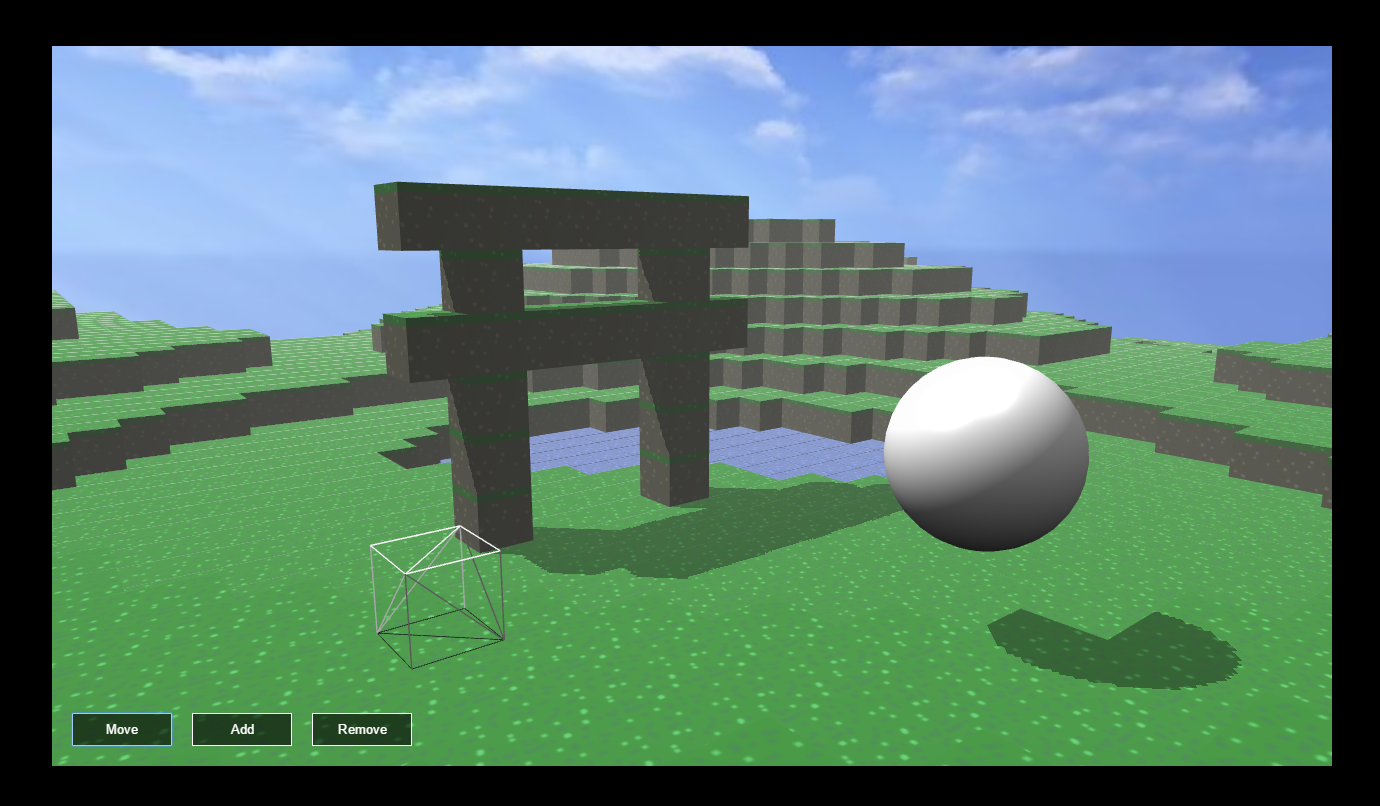
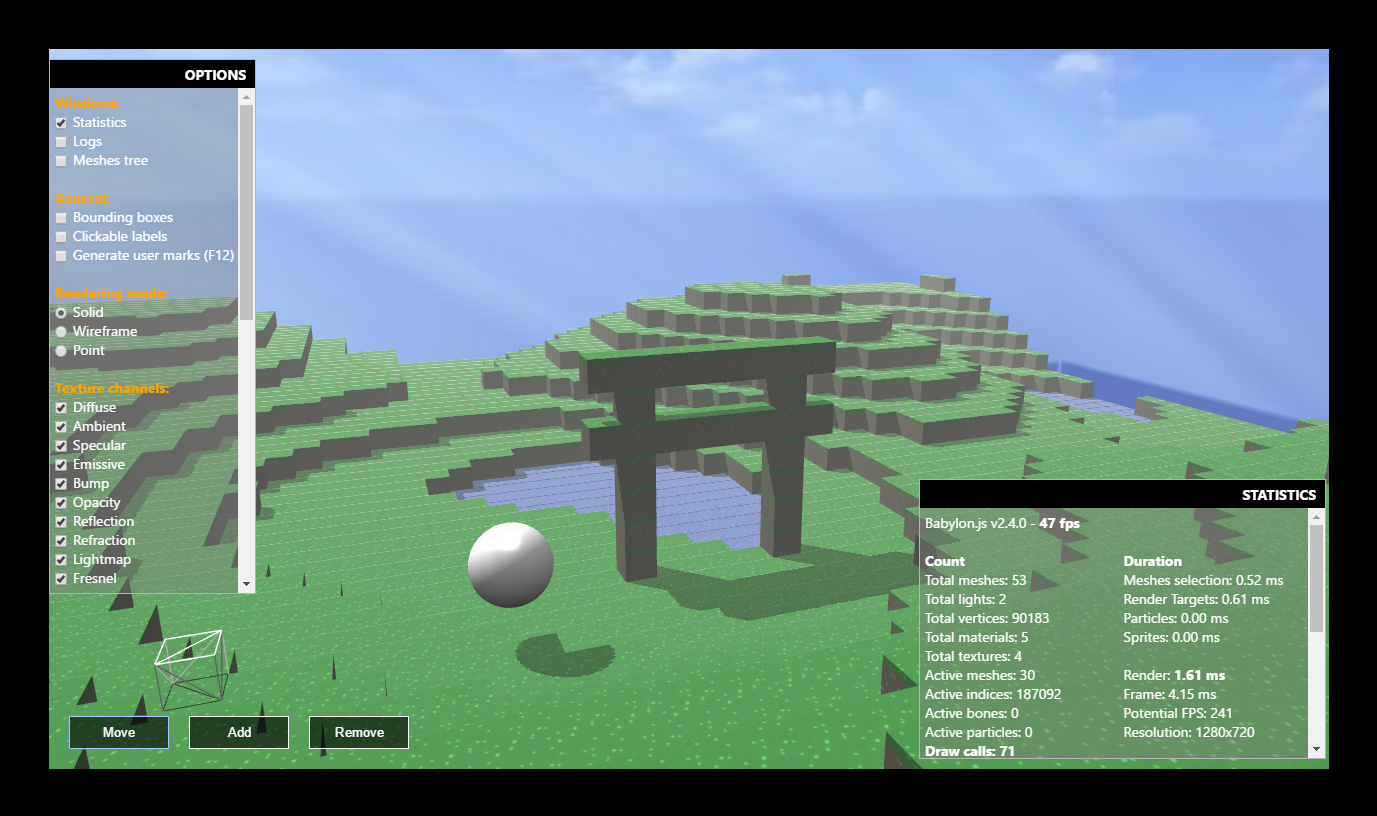
fix shadow map

diff --git a/src/Graphics/Babylon/ShadowGenerator.js b/src/Graphics/Babylon/ShadowGenerator.js
@@ -31,6 +31,14 @@ exports.pushToRenderList = function(mesh){
     }
 }
 
+exports.setRenderList = function(renderList){
+    return function(shadowMap){
+        return function(){
+            shadowMap.renderList = renderList.slice();
+        }
+    }
+}
+
 exports.setBias = function(bias){
     return function(generator){
         return function(){

diff --git a/src/Graphics/Babylon/FreeCamera.js b/src/Graphics/Babylon/FreeCamera.js
@@ -8,6 +8,10 @@ exports.createFreeCamera = function(id){
     }
 }
 
+exports.freeCameraToCamera = function(camera){
+    return camera;
+}
+
 exports.setTarget = function(position){
     return function(camera){
         return function(){

diff --git a/src/Graphics/Babylon/Camera.js b/src/Graphics/Babylon/Camera.js
@@ -1,0 +1,5 @@
+exports.getPosition = function(camera){
+    return function(){
+        return camera.position;
+    }
+}

diff --git a/readme.md b/readme.md
@@ -5,7 +5,7 @@ Gates of Babylonjs (http://www.babylonjs.com/) for PureScript.
 
 ![screenshot](https://rawgit.com/aratama/purescript-babylon/master/docs/screenshot2.png)
 
-Experimental. Far remove from completion of the API.
+Experimental. Far from complete APIs.
 
 ## build
 
